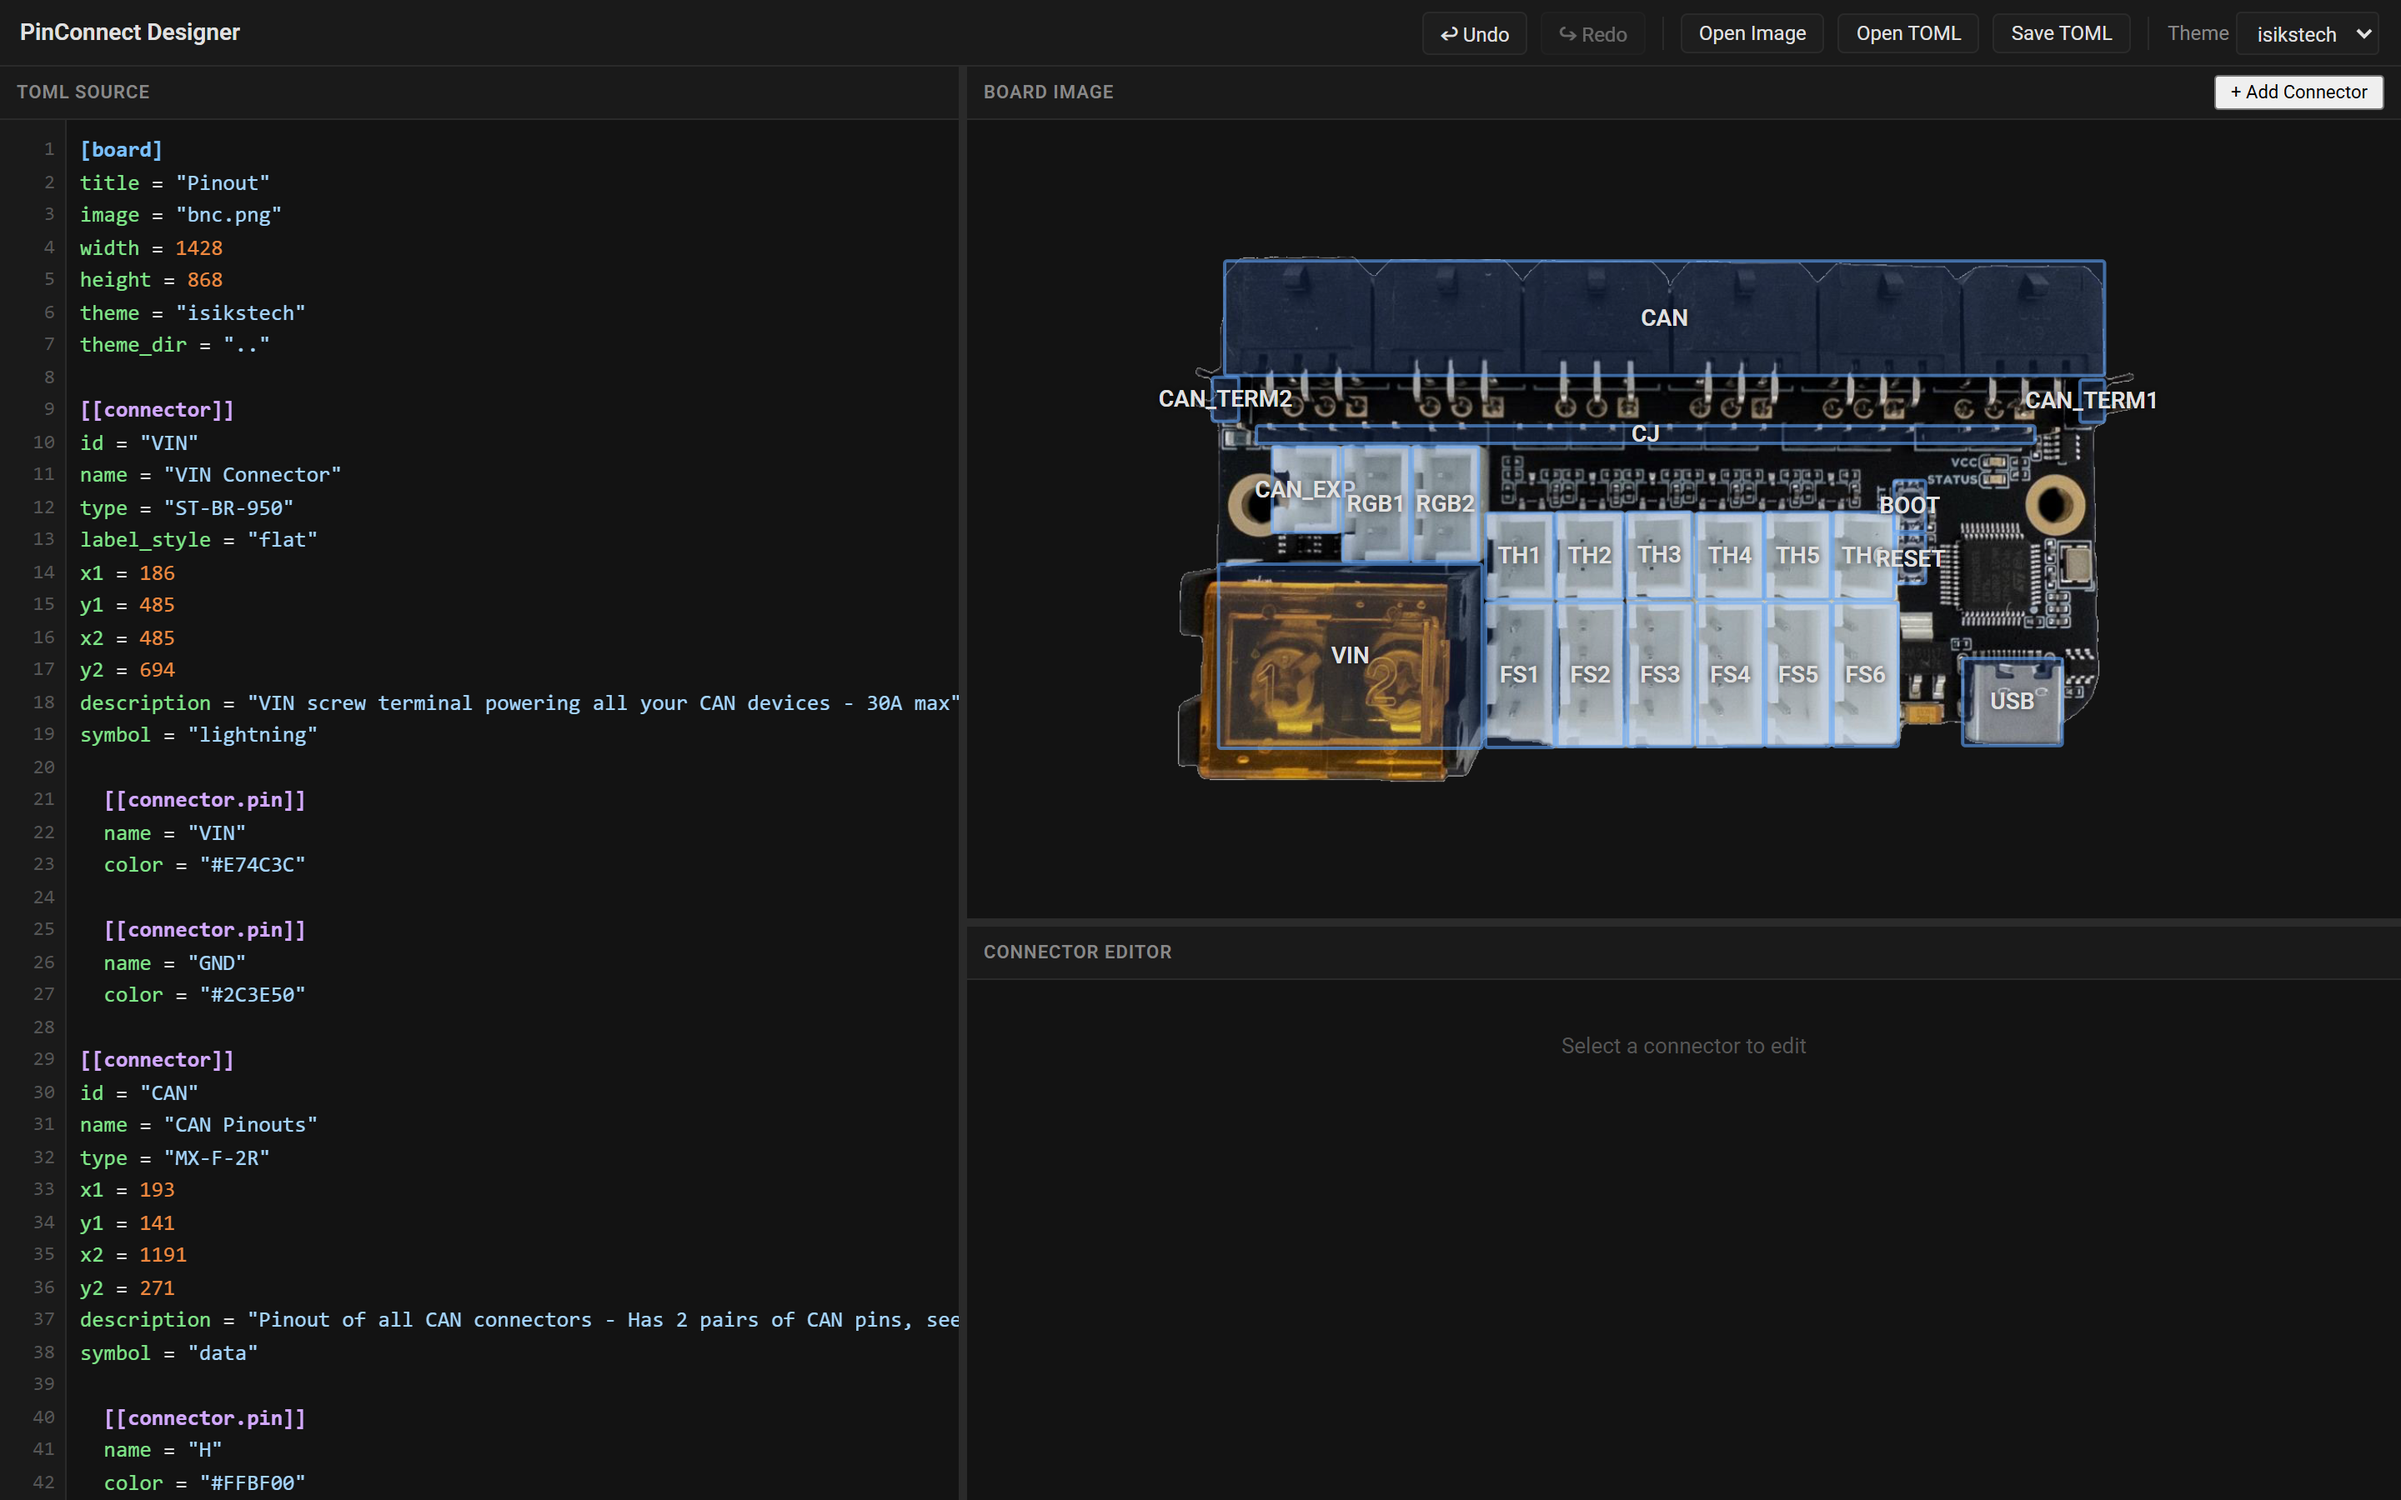
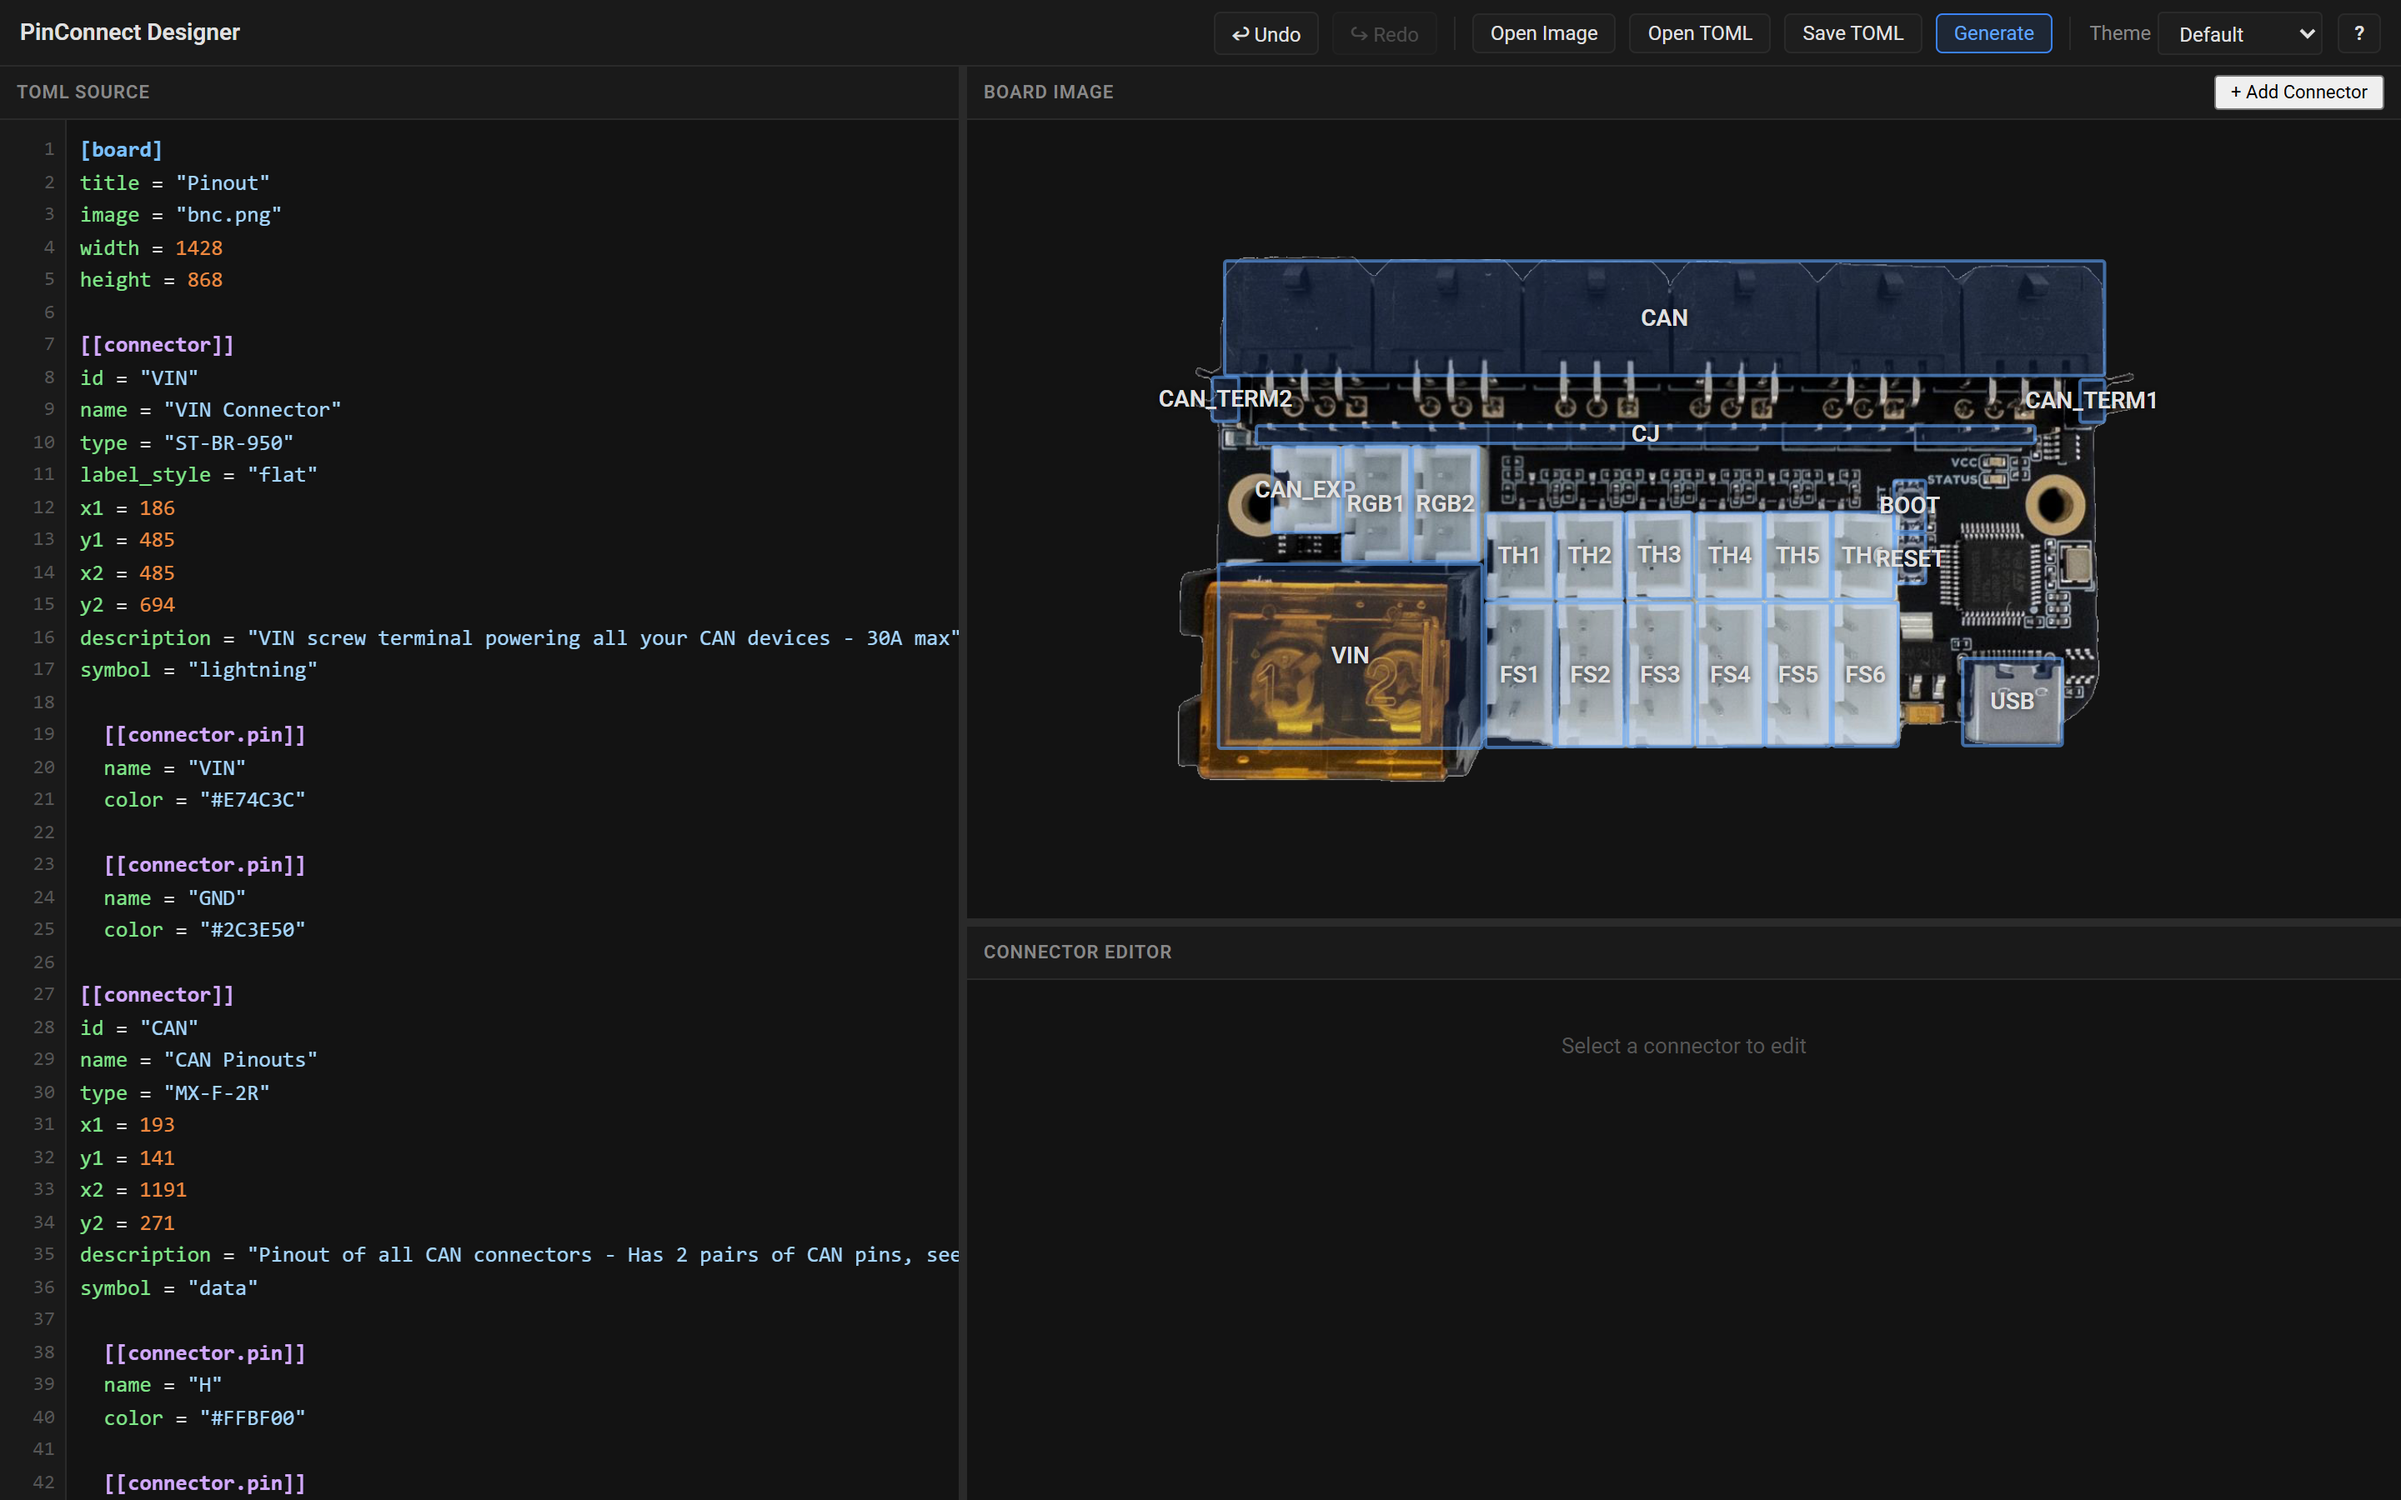
Capture the Generate dialog and About box, and refresh the rest
The toolbar gained a Generate button, an About button and a runtime
status line, so every shot that included it was showing chrome that no
longer exists. Generate and the About box had no images at all, despite
being the two new surfaces a reader meets first.

Two things keep the images honest. The generator renders the Generate
shot with a bundled theme, and strips theme_dir, connector_dir and theme
from a copy of the board before loading it. A board reading a theme from
its own folder cannot be rendered in the browser at all, so the dialog
showed a warning banner where the pinout should be, and which board the
contributor passed would have decided what the screenshot depicted. The
original file is not touched.

Also corrects a UK spelling in a comment, which the repo writes US.

diff --git a/pinout_design/js/dialogs.js b/pinout_design/js/dialogs.js
@@ -91,7 +91,7 @@ export async function openGenerate(state, tomlText) {
   let previewUrl = null;
   onClose(() => { if (previewUrl) URL.revokeObjectURL(previewUrl); });
 
-  // Honour the height protocol the generated page speaks, the same one
+  // Honor the height protocol the generated page speaks, the same one
   // pinout-embed's listener implements. A theme that stacks the connector list
   // below the board reports its content height and hides its own scrollbar,
   // expecting whoever embeds it to grow the frame. A fixed-height frame just

diff --git a/tools/designer-screenshots/generate.py b/tools/designer-screenshots/generate.py
@@ -18,6 +18,7 @@ loads Roboto from Google Fonts, so this needs network access.
 """
 import sys
 import subprocess
+import tempfile
 import time
 from pathlib import Path
 
@@ -31,6 +32,25 @@ PORT = 8090
 # passing a board TOML + image on the command line.
 DEFAULT_TOML = REPO.parent / "docs-zensical" / "docs" / "pinouts" / "bnc" / "bnc.toml"
 DEFAULT_PNG = REPO.parent / "docs-zensical" / "docs" / "pinouts" / "bnc" / "bnc.png"
+
+
+def _without_local_dirs(toml_path: Path, tmp: Path) -> Path:
+    """A copy of the board with its board-local theme and connector directories
+    removed.
+
+    The designer can only use the bundled connector types and themes, so a board
+    pointing at its own files renders with a warning banner instead of a clean
+    pinout. That is correct behavior and the docs describe it, but it makes a
+    poor illustration of the normal path, and it would make these images depend
+    on which board the contributor happened to pass.
+    """
+    kept = [
+        line for line in toml_path.read_text(encoding="utf-8").splitlines(keepends=True)
+        if not line.strip().startswith(("theme_dir", "connector_dir", "theme "))
+    ]
+    out = tmp / toml_path.name
+    out.write_text("".join(kept), encoding="utf-8")
+    return out
 
 
 def main(toml_path: Path, png_path: Path):
@@ -47,6 +67,8 @@ def main(toml_path: Path, png_path: Path):
         stdout=subprocess.DEVNULL, stderr=subprocess.DEVNULL,
     )
     time.sleep(1.5)
+    tmpdir = tempfile.TemporaryDirectory()
+    toml_path = _without_local_dirs(toml_path, Path(tmpdir.name))
     try:
         with sync_playwright() as pw:
             browser = pw.chromium.launch(channel="chrome", headless=True)
@@ -117,10 +139,42 @@ def main(toml_path: Path, png_path: Path):
             time.sleep(0.3)
             page.locator(".pin-list").screenshot(path=str(ASSETS / "workflow-4-pins.png"))
 
+            # Restore the panel heights the two shots above borrowed, so the
+            # dialogs below are captured over the normal layout.
+            page.evaluate("""() => {
+                const p = document.getElementById('panel-connector');
+                p.style.height = ''; p.style.flex = '';
+            }""")
+
+            # 7. The Generate preview, which is where the pinout is actually
+            # produced. Wait for the rendered page to appear in the frame.
+            page.click("#generate-btn")
+            # Pick a bundled theme rather than whatever the board names. A board
+            # using a theme from its own theme_dir cannot render in the browser
+            # at all, which is correct but makes a poor screenshot, and it would
+            # make the shot depend on which board the contributor passed.
+            page.wait_for_selector("#gen-theme")
+            page.select_option("#gen-theme", "default")
+            page.wait_for_selector("#gen-preview iframe")
+            page.wait_for_function(
+                "document.getElementById('gen-status')"
+                "?.textContent.includes('KB') === true", timeout=60_000)
+            time.sleep(0.8)
+            page.locator(".modal").screenshot(path=str(ASSETS / "workflow-7-generate.png"))
+            page.click(".modal-close")
+            time.sleep(0.3)
+
+            # 8. The About box, the first thing a visitor to the hosted site sees.
+            page.click("#about-btn")
+            page.wait_for_selector(".modal-body")
+            time.sleep(0.3)
+            page.locator(".modal").screenshot(path=str(ASSETS / "designer-about.png"))
+
             browser.close()
-        print("OK - 7 designer screenshots written to assets/")
+        print("OK - 9 designer screenshots written to assets/")
     finally:
         server.terminate()
+        tmpdir.cleanup()
 
 
 if __name__ == "__main__":

diff --git a/tools/designer-screenshots/README.md b/tools/designer-screenshots/README.md
@@ -1,8 +1,8 @@
 # Designer screenshots
 
-Regenerates the seven screenshots of the visual designer used in [pinout-design.md](../../docs/pinout-design.md): `designer-overview.png` and `workflow-1..6-*.png`.
+Regenerates the nine screenshots of the designer used in [designer.md](../../docs/designer.md) and [getting-started.md](../../docs/getting-started.md): `designer-overview.png`, `designer-about.png`, and `workflow-1..7-*.png`.
 
-Playwright serves `pinout_design/` locally, drives the real UI in the system Chrome, loads a sample board (image, then TOML), selects a two-row connector so the preview and R1/R2 pin selectors are visible, and captures each panel. Shots are dark at 2x, matching the designer's fixed dark theme.
+Playwright serves `pinout_design/` locally, drives the real UI in the system Chrome, loads a sample board (image, then TOML), selects a two-row connector so the preview and R1/R2 pin selectors are visible, opens the Generate dialog and the About box, and captures each panel. Shots are dark at 2x, matching the designer's fixed dark theme.
 
 Run from the repository root after a change to the designer's chrome (fonts, layout, panel markup):
 
@@ -13,4 +13,9 @@ python tools/designer-screenshots/generate.py BOARD.toml BOARD.png   # your own 
 
 The default board lives outside the repo, so a contributor should pass their own board TOML and image. Any board works; the script selects the `CAN` connector if present, otherwise the first one.
 
-Requires `playwright` (`pip install playwright`); it drives the system Chrome, no download needed. The designer loads Roboto from Google Fonts, so this needs network access. Commit the regenerated PNGs.
+Two details keep the images honest and independent of which board you pass:
+
+- It builds the Pyodide payload first and waits for the runtime to report ready. Without that the designer shows "Renderer unavailable" and draws no connectors, and every shot would capture a dead app.
+- It strips `theme_dir`, `connector_dir` and `theme` from a copy of the board before loading it, and renders the Generate shot with the `default` theme. A board pointing at its own theme or connector folder cannot be rendered in the browser at all, so the dialog would show a warning banner instead of a pinout. The original file is not modified.
+
+Requires `playwright` (`pip install playwright`); it drives the system Chrome, no download needed. The designer loads Roboto from Google Fonts and Pyodide from a CDN, so this needs network access. Commit the regenerated PNGs.
